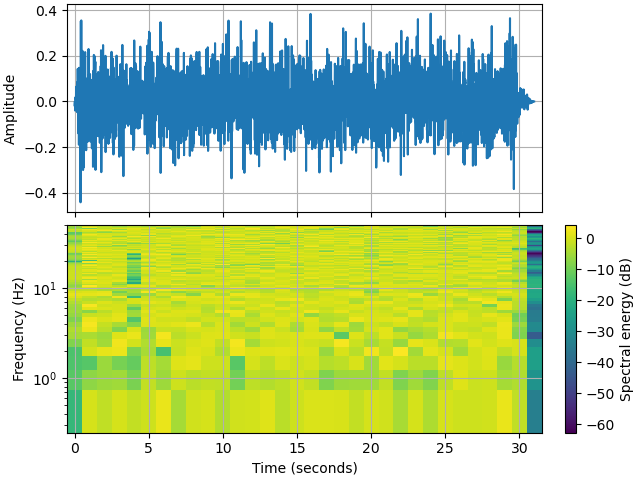
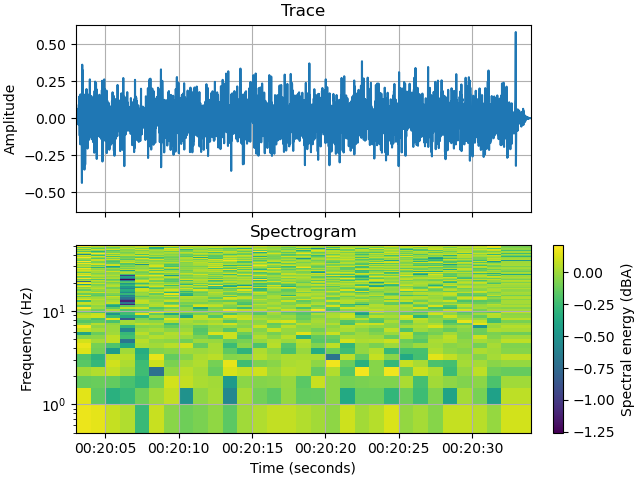
Correct but slower

diff --git a/covseisnet/plot.py b/covseisnet/plot.py
@@ -11,6 +11,44 @@ import obspy
 from scipy.fft import rfft, rfftfreq
 
 import covseisnet as csn
+from covseisnet.stream import short_time_fourier_transform
+
+
+def utc_to_datetime(utc_array: np.ndarray) -> np.ndarray:
+    """Convert an array of UTC times to datetime objects.
+
+    Arguments
+    ---------
+    utc_array : :class:`~numpy.ndarray`
+        The array of UTC times.
+
+    Returns
+    -------
+    :class:`~numpy.ndarray`
+        The array of datetime objects.
+    """
+    return np.array([t.datetime for t in utc_array])
+
+
+def make_axis_symmetric(ax: plt.Axes, axis: str = "both") -> None:
+    """Make the axis of a plot symmetric.
+
+    Arguments
+    ---------
+    ax : :class:`~matplotlib.axes.Axes`
+        The axis to modify.
+    axis : str
+        The axis to modify. Can be "both", "x", or "y".
+    """
+    if axis in ["both", "x"]:
+        xlim = ax.get_xlim()
+        xabs = np.abs(xlim)
+        ax.set_xlim(-max(xabs), max(xabs))
+
+    if axis in ["both", "y"]:
+        ylim = ax.get_ylim()
+        yabs = np.abs(ylim)
+        ax.set_ylim(-max(yabs), max(yabs))
 
 
 def trace_and_spectrum(trace: obspy.core.trace.Trace) -> None:
@@ -69,32 +107,50 @@ def trace_and_spectrogram(
     _, ax = plt.subplots(nrows=2, constrained_layout=True, sharex=True)
 
     # Calculate spectrogram
-    times, frequencies, spectrogram = csn.calculate_spectrogram(
+    spectra_times, frequencies, spectra = short_time_fourier_transform(
         trace, **kwargs
     )
 
     # Remove zero frequencies
     frequencies = frequencies[1:]
-    spectrogram = spectrogram[1:, :]
+    spectra = spectra[:, 1:]
+
+    # Add one frequency to frequencies for pcolormesh
+    df = frequencies[1] - frequencies[0]
+    frequencies = np.concatenate([frequencies, [frequencies[-1] + df]])
+
+    # Time vectors
+    trace_times = [t.datetime for t in trace.times("utcdatetime")]
+    spectra_times = [t.datetime for t in spectra_times]
+    d_spectra_times = spectra_times[1] - spectra_times[0]
+    spectra_times.append(spectra_times[-1] + 2 * d_spectra_times)
 
     # Make sure the spectrogram is in dB
-    spectrogram = 20 * np.log10(spectrogram)
+    spectrogram = np.log10(np.abs(spectra) + 1e-10)
 
     # Plot trace
-    ax[0].plot(trace.times(), trace.data)
-    ax[0].set_ylabel("Amplitude")
+    ax[0].plot(trace_times, trace.data)
     ax[0].grid()
+    ax[0].set_ylabel("Amplitude")
+    ax[0].set_title("Trace")
+    make_axis_symmetric(ax[0], axis="y")
 
     # Plot spectrogram
-    mappable = ax[1].pcolormesh(times, frequencies, spectrogram)
-    ax[1].set_xlabel("Time (seconds)")
-    ax[1].set_ylabel("Frequency (Hz)")
+    mappable = ax[1].pcolormesh(
+        spectra_times,
+        frequencies,
+        spectrogram.T,
+        shading="flat",
+    )
     ax[1].grid()
     ax[1].set_yscale("log")
+    ax[1].set_xlabel("Time (seconds)")
+    ax[1].set_ylabel("Frequency (Hz)")
+    ax[1].set_title("Spectrogram")
 
     # Colorbar
     colorbar = plt.colorbar(mappable, ax=ax[1])
-    colorbar.set_label("Spectral energy (dB)")
+    colorbar.set_label("Spectral energy (dBA)")
 
     plt.savefig("spectrogram.png")
 
@@ -129,23 +185,28 @@ def stream_and_coherence(
     fig, ax = plt.subplots(nrows=2, constrained_layout=True, sharex=True)
 
     # Show traces
+    trace_times = utc_to_datetime(stream.times(type="utcdatetime"))
     global_max = np.max([np.max(np.abs(trace.data)) for trace in stream])
     for index, trace in enumerate(stream):
         waveform = trace.data
         waveform /= global_max
-        ax[0].plot(
-            trace.times("matplotlib"), waveform + index, color="k", lw=0.5
-        )
+        ax[0].plot(trace_times, waveform + index, color="k", lw=0.5)
 
-    # Get times in matplotlib format
-    starttimes = stream[0].stats.starttime.datetime
-    times = mdates.date2num(starttimes) + times / 86400.0
+    # Get time
+    times = utc_to_datetime(times)
+    d_times = times[1] - times[0]
+    times = np.concatenate([times, [times[-1] + 2 * d_times]])
+
+    # Add one frequency to frequencies for pcolormesh
+    df = frequencies[1] - frequencies[0]
+    frequencies = np.concatenate([frequencies, [frequencies[-1] + df]])
 
     # Show coherence
     mappable = ax[1].pcolormesh(
         times,
         frequencies,
         coherence.T,
+        shading="flat",
         cmap="magma_r",
         vmin=0,
         **kwargs,

diff --git a/covseisnet/stream.py b/covseisnet/stream.py
@@ -15,6 +15,7 @@ synchronization of traces.
 
 from functools import partial
 
+from joblib import Parallel, delayed
 import numpy as np
 import obspy
 from scipy import signal
@@ -752,6 +753,105 @@ def smooth_envelope_division(
     envelope = np.abs(signal.hilbert(x))
     smooth_envelope = signal.savgol_filter(envelope, smooth, order)
     return x / (smooth_envelope + epsilon)
+
+
+def short_time_fourier_transform(
+    trace: obspy.Trace,
+    window_duration_sec: float = 2.0,
+    window_step_sec: None | float = None,
+    window_function: str = "hann",
+    sampling_rate: None | float = 1.0,
+    **kwargs,
+) -> tuple[np.ndarray, np.ndarray, np.ndarray]:
+    r"""Short-Time Fourier Transform of a seismic trace.
+
+    This function calculates the Short-Time Fourier Transform of a seismic
+    trace. The transformation is performed with the
+    :func:`scipy.signal.stft` function. The function returns the timestamps,
+    frequencies, and the Short-Time Fourier Transform of the seismic trace.
+
+    Arguments
+    ---------
+    trace: :class:`~obspy.core.trace.Trace`
+        The seismic trace to calculate the spectrogram from.
+    window_duration_sec: float, optional
+        The duration of the Fourier window in seconds. Default to 2 seconds.
+    window_step_sec: float, optional
+        The step between two consecutive windows in seconds. If not provided,
+        the step is set to half the window size.
+    window_function: str, optional
+        The window function to use for the Short-Time Fourier Transform.
+        Default to "hann".
+    sampling_rate: float, optional
+        The sampling rate of the seismic traces. Default to 1.0 Hz.
+    **kwargs: dict, optional
+        Additional keyword arguments are passed to the
+        :func:`scipy.signal.stft` function. Check the SciPy documentation for
+        more details on the available options.
+
+    Returns
+    -------
+    numpy.ndarray
+        The timestamps with shape ``(n_times,)``.
+    numpy.ndarray
+        The frequencies with shape ``(n_frequencies,)``.
+    numpy.ndarray
+        The Short-Time Fourier Transform with shape ``(n_frequencies, n_times)``.
+    """
+    # Get window
+    sampling_rate = trace.stats.sampling_rate
+    window_size = int(window_duration_sec * sampling_rate)
+    window = signal.windows.get_window(window_function, window_size)
+
+    # Define hop
+    if window_step_sec is not None:
+        hop = int(window_step_sec * sampling_rate)
+    else:
+        hop = window_size // 2
+
+    # Spectrum calculation function
+    def calculate_spectrum(index):
+        waveform = trace.data[index : index + window_size]
+        return np.fft.rfft(waveform * window)
+
+    # Calculate the Short-Time Fourier Transform
+    indices = np.arange(trace.stats.npts - window_size + 1, step=hop)
+    spectra = Parallel(n_jobs=-1)(
+        delayed(calculate_spectrum)(index) for index in indices
+    )
+
+    # Time and frequency vectors
+    times = trace.times(type="utcdatetime")[indices]
+    frequencies = np.fft.rfftfreq(window_size, trace.stats.delta)
+    spectra = np.array(spectra)
+
+    return times, frequencies, spectra
+
+
+def short_time_fourier_transforms(
+    stream: NetworkStream,
+    **kwargs,
+) -> tuple[np.ndarray, np.ndarray, np.ndarray]:
+    """Wrapper for short_time_fourier_transform function for multiple traces."""
+    # Check if the traces are ready
+    assert stream.are_ready_to_process, "Traces are not ready to be processed."
+
+    # Calculate the first short-time Fourier transform
+    times, frequencies, short_time_fft = short_time_fourier_transform(
+        stream[0], **kwargs
+    )
+
+    # Loop over the other traces
+    short_time_ffts = np.zeros(
+        (len(stream), *short_time_fft.shape), dtype=complex
+    )
+    short_time_ffts[0] = short_time_fft
+    for i, trace in enumerate(stream[1:], start=1):
+        _, _, short_time_ffts[i] = short_time_fourier_transform(
+            trace, **kwargs
+        )
+
+    return times, frequencies, short_time_ffts
 
 
 def stft(

diff --git a/covseisnet/covariance.py b/covseisnet/covariance.py
@@ -6,7 +6,7 @@ import numpy as np
 import obspy
 from numpy.linalg import eigvalsh, eigh
 
-from .stream import calculate_short_time_fourier_spectra, NetworkStream
+from .stream import short_time_fourier_transforms, NetworkStream
 
 
 class CovarianceMatrix(np.ndarray):
@@ -364,33 +364,33 @@ def calculate_covariance_matrix(
 
     """
     # Short-time Fourier transform
-    times, frequencies, spectra = calculate_short_time_fourier_spectra(
+    times, frequencies, spectra = short_time_fourier_transforms(
         stream, **kwargs
     )
 
     # Remove first and last
-    times = times[1:-1]
-    spectra = spectra[..., 1:-1]
+    # times = times[1:-1]
+    # spectra = spectra[..., 1:-1]
 
     # Parametrization
     step = average // 2 if average_step is None else average * average_step
-    n_traces, n_frequencies, _ = spectra.shape
+    n_traces, n_times, n_frequencies = spectra.shape
 
     # Times of the covariance matrix
-    indices = range(0, len(times), step)
+    indices = range(0, len(times) - average + 1, step)
     covariance_n_times = len(indices)
     covariance_shape = (covariance_n_times, n_frequencies, n_traces, n_traces)
 
     # Initialization
-    covariance_times = np.zeros(covariance_n_times)
+    covariance_times = []
     covariances = np.zeros(covariance_shape, dtype=complex)
 
     # Compute with Einstein convention
     for i, index in enumerate(indices):
-        spectra_slice = spectra[..., index : index + average]
-        covariance_times[i] = np.mean(times[index : index + average])
+        spectra_slice = spectra[:, index : index + average]
+        covariance_times.append(times[index])
         covariances[i] = np.einsum(
-            "ift,jft -> fij", spectra_slice, np.conj(spectra_slice)
+            "itf,jtf -> fij", spectra_slice, np.conj(spectra_slice)
         )
 
     # Add stations

diff --git a/examples/plot_example_b1.py b/examples/plot_example_b1.py
@@ -29,9 +29,9 @@ import covseisnet as csn
 # Read example stream
 stream = csn.read("../data/unvervolc_sample.mseed")
 stream = stream.select(station="UV1*")
-starttime = stream[0].stats.starttime
-endtime = starttime + 600
-stream.cut(starttime, endtime)
+# starttime = stream[0].stats.starttime
+# endtime = starttime + 1200
+# stream.cut(starttime, endtime)
 
 # Get channels
 channels = [trace.stats.channel for trace in stream]
@@ -40,7 +40,7 @@ channels = [trace.stats.channel for trace in stream]
 stream.detrend("linear")
 stream.filter("highpass", freq=0.5)
 # stream.taper(max_percentage=0.05)
-stream.whiten(window_duration_sec=50)
+# stream.whiten(window_duration_sec=50)
 
 # %%
 # Covariance matrix
@@ -49,7 +49,7 @@ stream.whiten(window_duration_sec=50)
 # The covariance matrix is calculated using the method :func:`~covseisnet.covariance.calculate_covariance_matrix`. The method returns the times, frequencies, and covariances of the covariance matrix. Among the parameters of the method, the window duration and the number of windows are important to consider. The window duration is the length of the Fourier estimation window in seconds, and the number of windows is the number of windows to average to estimate the covariance matrix. We can then visualize the covariance matrix at a given time and frequency, and its corresponding eigenvalues.
 
 times, frequencies, covariances = csn.calculate_covariance_matrix(
-    stream, window_duration_sec=20, average=15
+    stream, window_duration_sec=20, average=14
 )
 
 # Show covariance from first window and first frequency

diff --git a/examples/plot_example_a3.py b/examples/plot_example_a3.py
@@ -12,9 +12,11 @@ inverse Fourier transform to the traces.
 
 # sphinx_gallery_thumbnail_number = 2
 
+import numpy as np
+
 import covseisnet as csn
 
-WINDOW_DURATION = 2
+WINDOW_DURATION = 2.0
 
 # %%
 # Read waveforms
@@ -25,6 +27,12 @@ WINDOW_DURATION = 2
 
 # Read the example stream (shipped with ObsPy)
 stream = csn.read()
+
+# Extract the first trace, and preprocess it
+trace = stream[0]
+trace.filter("highpass", freq=0.4)
+trace.data /= np.max(np.abs(trace.data))
+
 
 # Plot trace and corresponding spectrum
 csn.plot.trace_and_spectrogram(stream[0], window_duration_sec=WINDOW_DURATION)
@@ -50,7 +58,6 @@ csn.plot.trace_and_spectrogram(
     window_duration_sec=WINDOW_DURATION,
 )
 
-exit()
 
 # %%
 # Spectral whitening (smooth)
